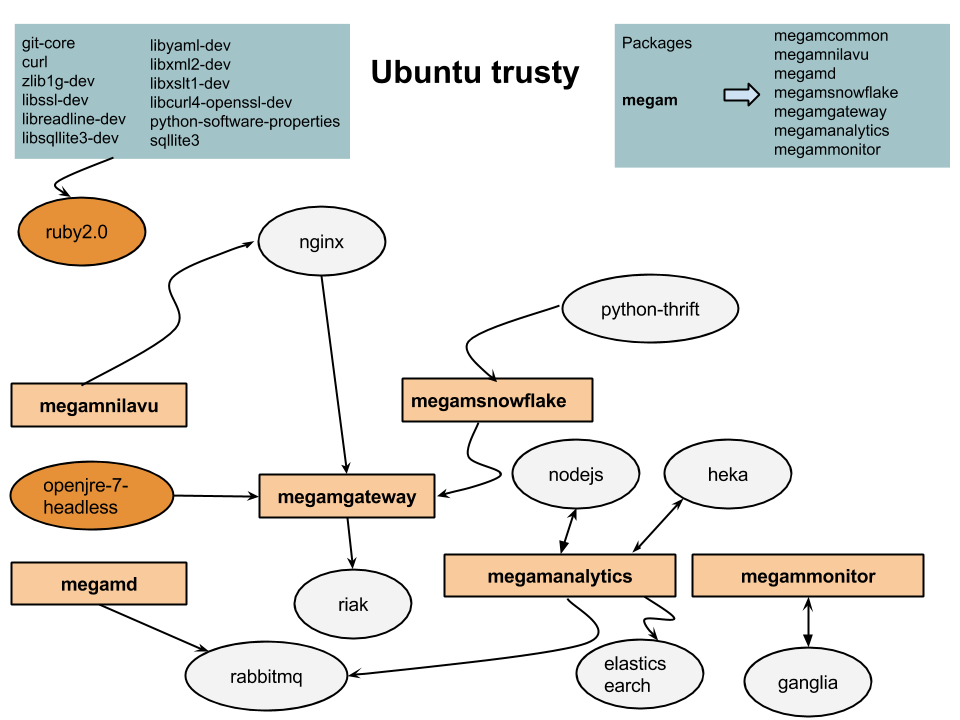
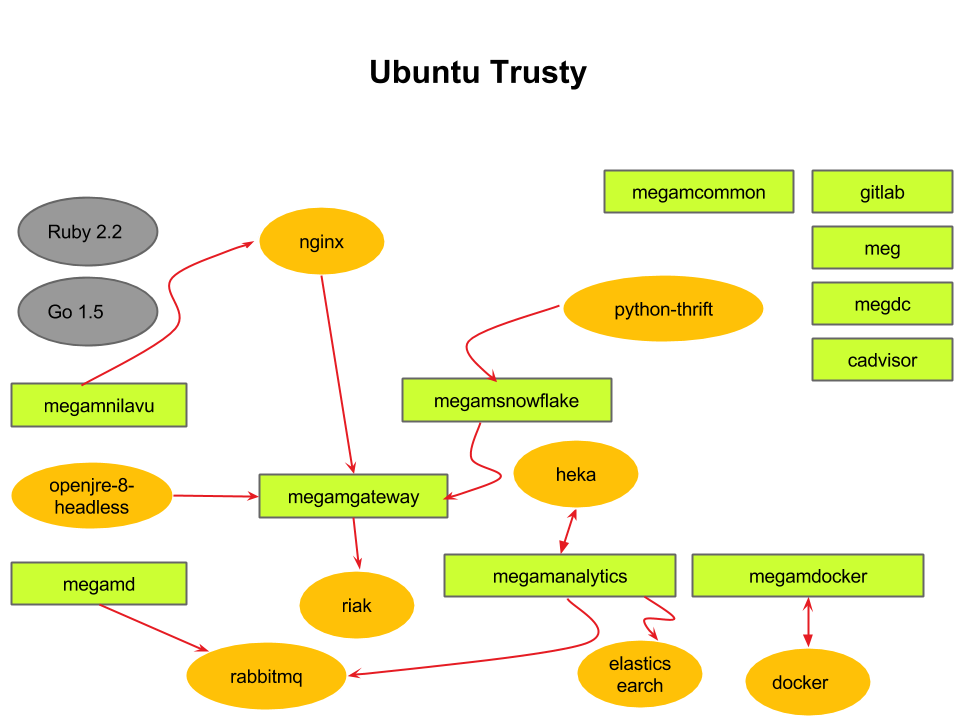
updated readme, trusty.png

diff --git a/README.md b/README.md
@@ -1,7 +1,7 @@
 packaging
 =========
 
-This project helps in packaging megam - private datacenter.
+This project helps in packaging megam cloud platform.
 
 This has rake files that auto-generates builds for Megam.
 
@@ -11,22 +11,58 @@ In the first phase we plan to provide _`debs`_.
 
 The list of debian packages built and their dependency are shown below.
 
-* Ubuntu Precise (12.04)
-![Precise](https://github.com/megamsys/packager/blob/master/images/precise.png)
-
 * Ubuntu Trusty (14.04)
 ![Trusty](https://github.com/megamsys/packager/blob/master/images/trusty.png)
 
-`We are working on it. You can give us a hand too.`
+`We are working on the following. You can give us a hand too.`
 
 * Debian Jessie
+
 * _`rpm`_
+
+* [Dockerfiles](https://github.com/megamsys/dockerfiles)
 
 How can you build it
 -----------------------
+
 Every flavor (ubuntu) has a config.rb and a the version is set in the global version.rb.
 
-Go into one of the directories and
+Prerequisites
+-----------------------
+
+- Ruby 2.2.x via [rvm](http://devcenter.megam.io/2015/03/03/megam_install_ruby/)
+- OpenJDK8
+- Golang [1.5](https://golang.org/dl/)
+- set GOPATH like the following example
+
+```
+
+export GOPATH=~/.go
+export GOROOT=~/software/go
+PATH=$GOROOT/bin:$GOPATH/bin
+
+sudo apt-get install mercurial
+sudo apt-get install bzr
+```
+- sbt [0.13.9](http://devcenter.megam.io/2015/03/16/setting-up-scala-sbt-play-akka/)
+
+
+Builds
+-----------------------
+
+Go into the directories of,
+
+*megamcommon*
+
+```
+
+cd packager/megamcommon
+rake trusty
+
+```
+
+
+*megamnilavu*
 
 ```
 cd megamnilavu
@@ -34,12 +70,60 @@ cd megamnilavu
 #builds a package for trusty
 rake
 
-builds a package for precise
-rake precise
+```
+
+*megamgateway*
 
 ```
 
+cd packager/megamgateway
+rake trusty
 
+```
+
+*megamsnowflake*
+
+```
+
+cd packager/megamsnowflake
+rake trusty
+
+```
+
+*megamd*
+
+```
+
+cd packager/megamd
+rake trusty
+
+```
+
+*megamgulpd*
+
+```
+
+cd packager/megamgulpd
+rake trusty
+
+```
+
+After building packages, sftp it into get.megam.io server. contact our admin for credential and further instructions
+
+```
+
+sftp root@get.megam.io
+     Password :
+
+cd trusty
+
+put <PACKAGE_NAME>
+
+Push your packages in ~/trusty folder
+
+./aptly.sh
+
+```
 
 
 # License
@@ -47,8 +131,9 @@ rake precise
 |                      |                                          |
 |:---------------------|:-----------------------------------------|
 | **Author:**          | Yeshwanth (<getyesh@megam.io>)
-|		       	       | Thomas Alrin (<thomasalrin@megam.io>)
+|		       	           | Thomas Alrin (<thomasalrin@megam.io>)
 |                      | Rajthilak (<rajthilak@megam.io>)
+|                      | MVijaykanth (<mvijaykanth@megam.io>)
 |                      | Kishorekumar Neelamegam (<nkishore@megam.io>)
 | **Copyright:**       | Copyright (c) 2013-2015 Megam Systems.
 | **License:**         | Apache License, Version 2.0
@@ -64,4 +149,3 @@ distributed under the License is distributed on an "AS IS" BASIS,
 WITHOUT WARRANTIES OR CONDITIONS OF ANY KIND, either express or implied.
 See the License for the specific language governing permissions and
 limitations under the License.
-
